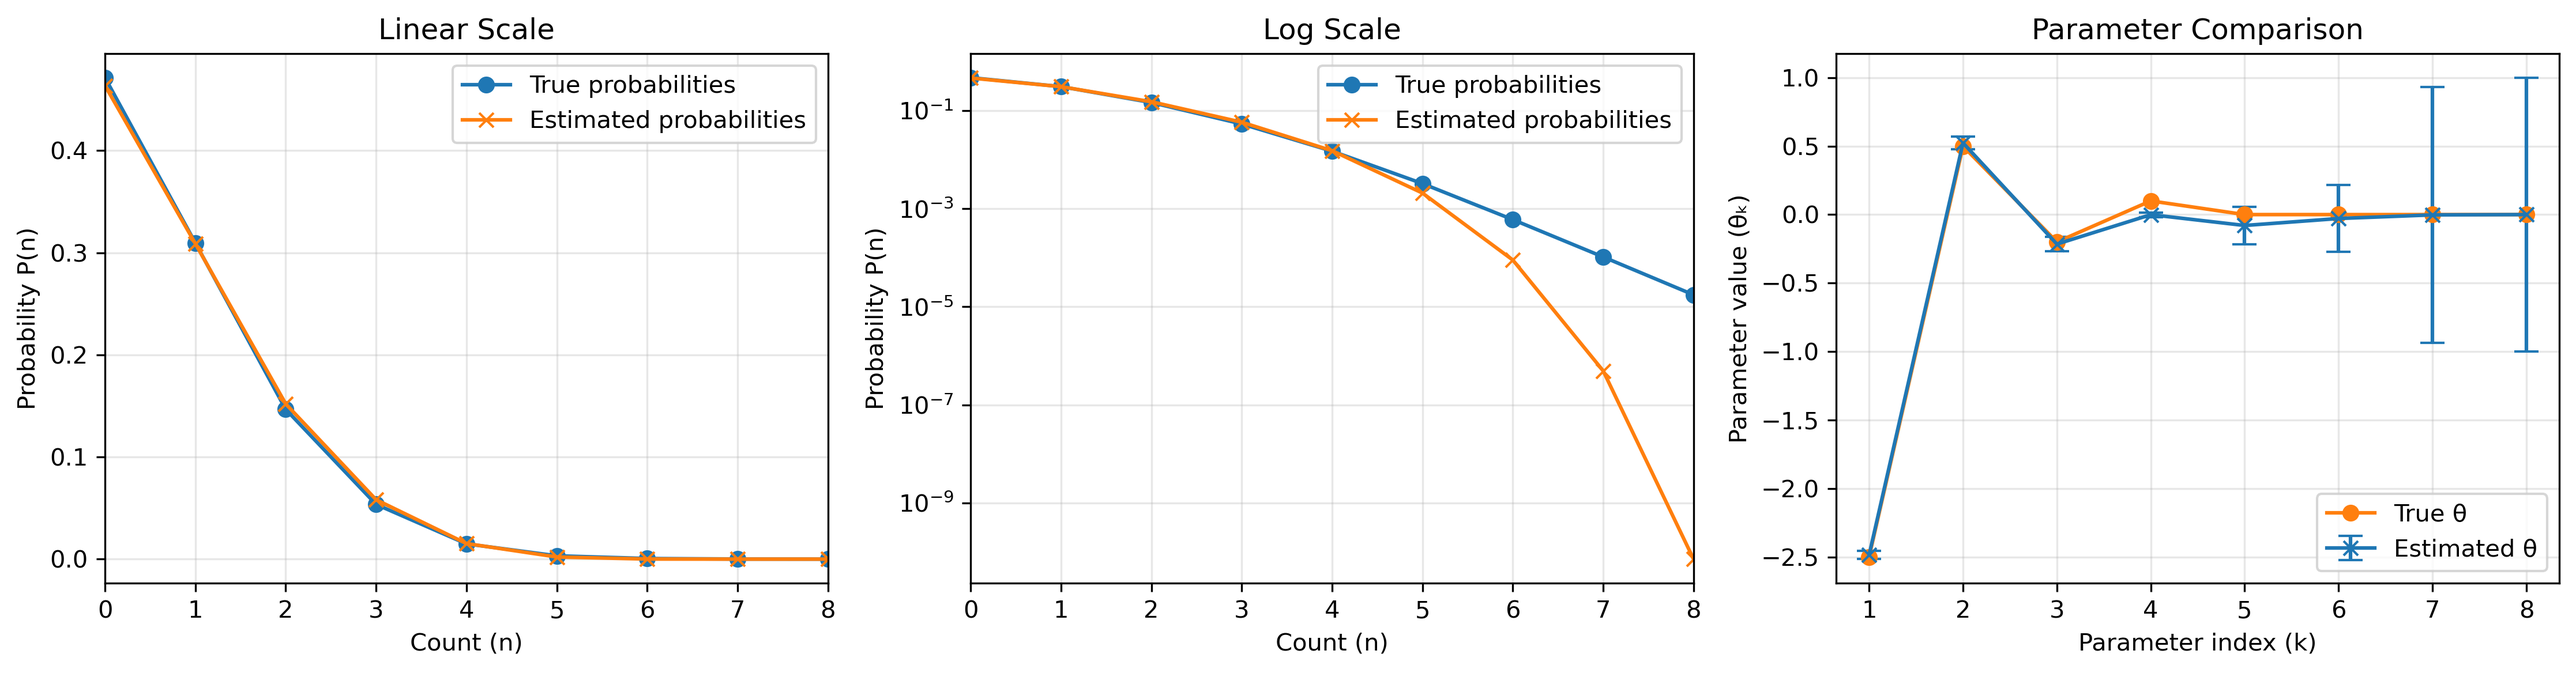
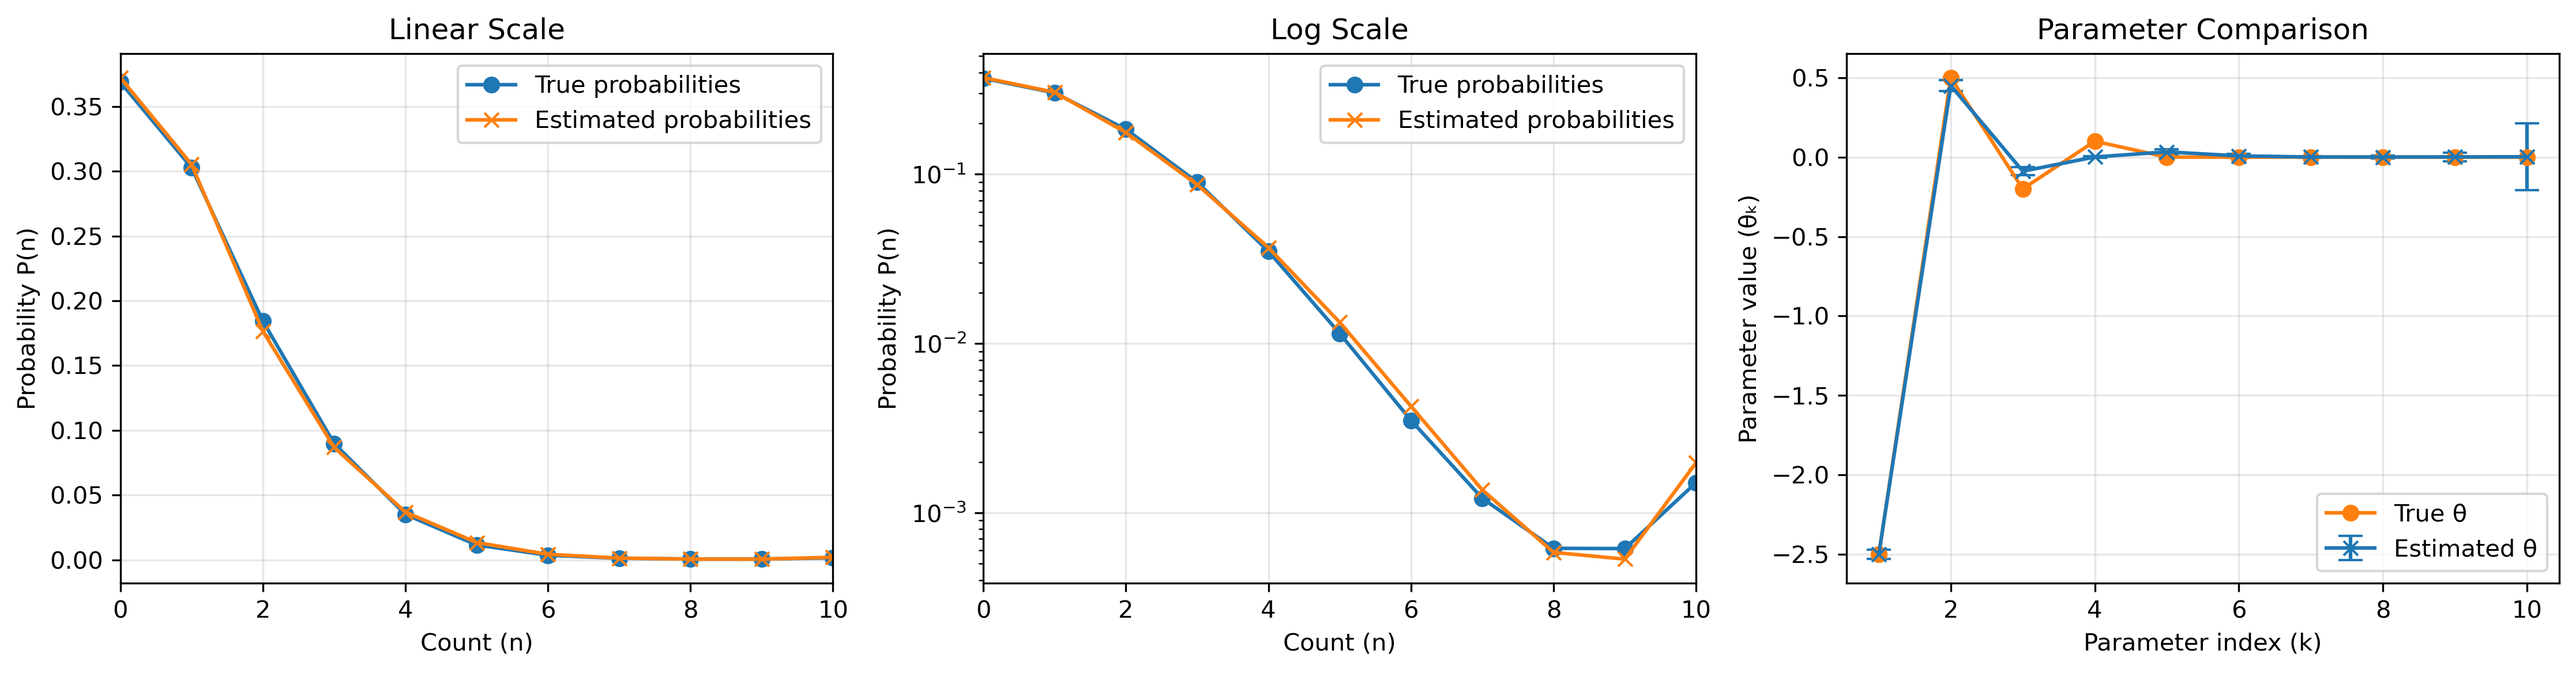
Update homogeneous exponential model and its visualization

diff --git a/fig_homogeneous_exp_fit.py b/fig_homogeneous_exp_fit.py
@@ -55,7 +55,7 @@ def plot_probability_comparison(true_probs, est_probs, N, true_theta, est_theta,
     if Sigma is not None:
         # Compute standard errors from diagonal of covariance matrix
         std_errors = np.sqrt(np.diag(Sigma))
-        ax3.errorbar(x, est_theta, yerr=std_errors, fmt='x-', 
+        ax3.errorbar(x, est_theta, yerr=2*std_errors, fmt='x-', 
                     label='Estimated θ', capsize=5, capthick=1)
     else:
         ax3.plot(x, est_theta, 'x-', label='Estimated θ')

diff --git a/model_homogeneous_exp.py b/model_homogeneous_exp.py
@@ -141,7 +141,7 @@ def estimate_map_parameters(N, S, M, h, q, theta0=None):
 
     res = minimize(negative_log_posterior, theta0, 
                   jac=gradient_negative_log_posterior, 
-                  method='BFGS', 
+                  method='L-BFGS-B', 
                   options={'disp':False})
     return res
 
